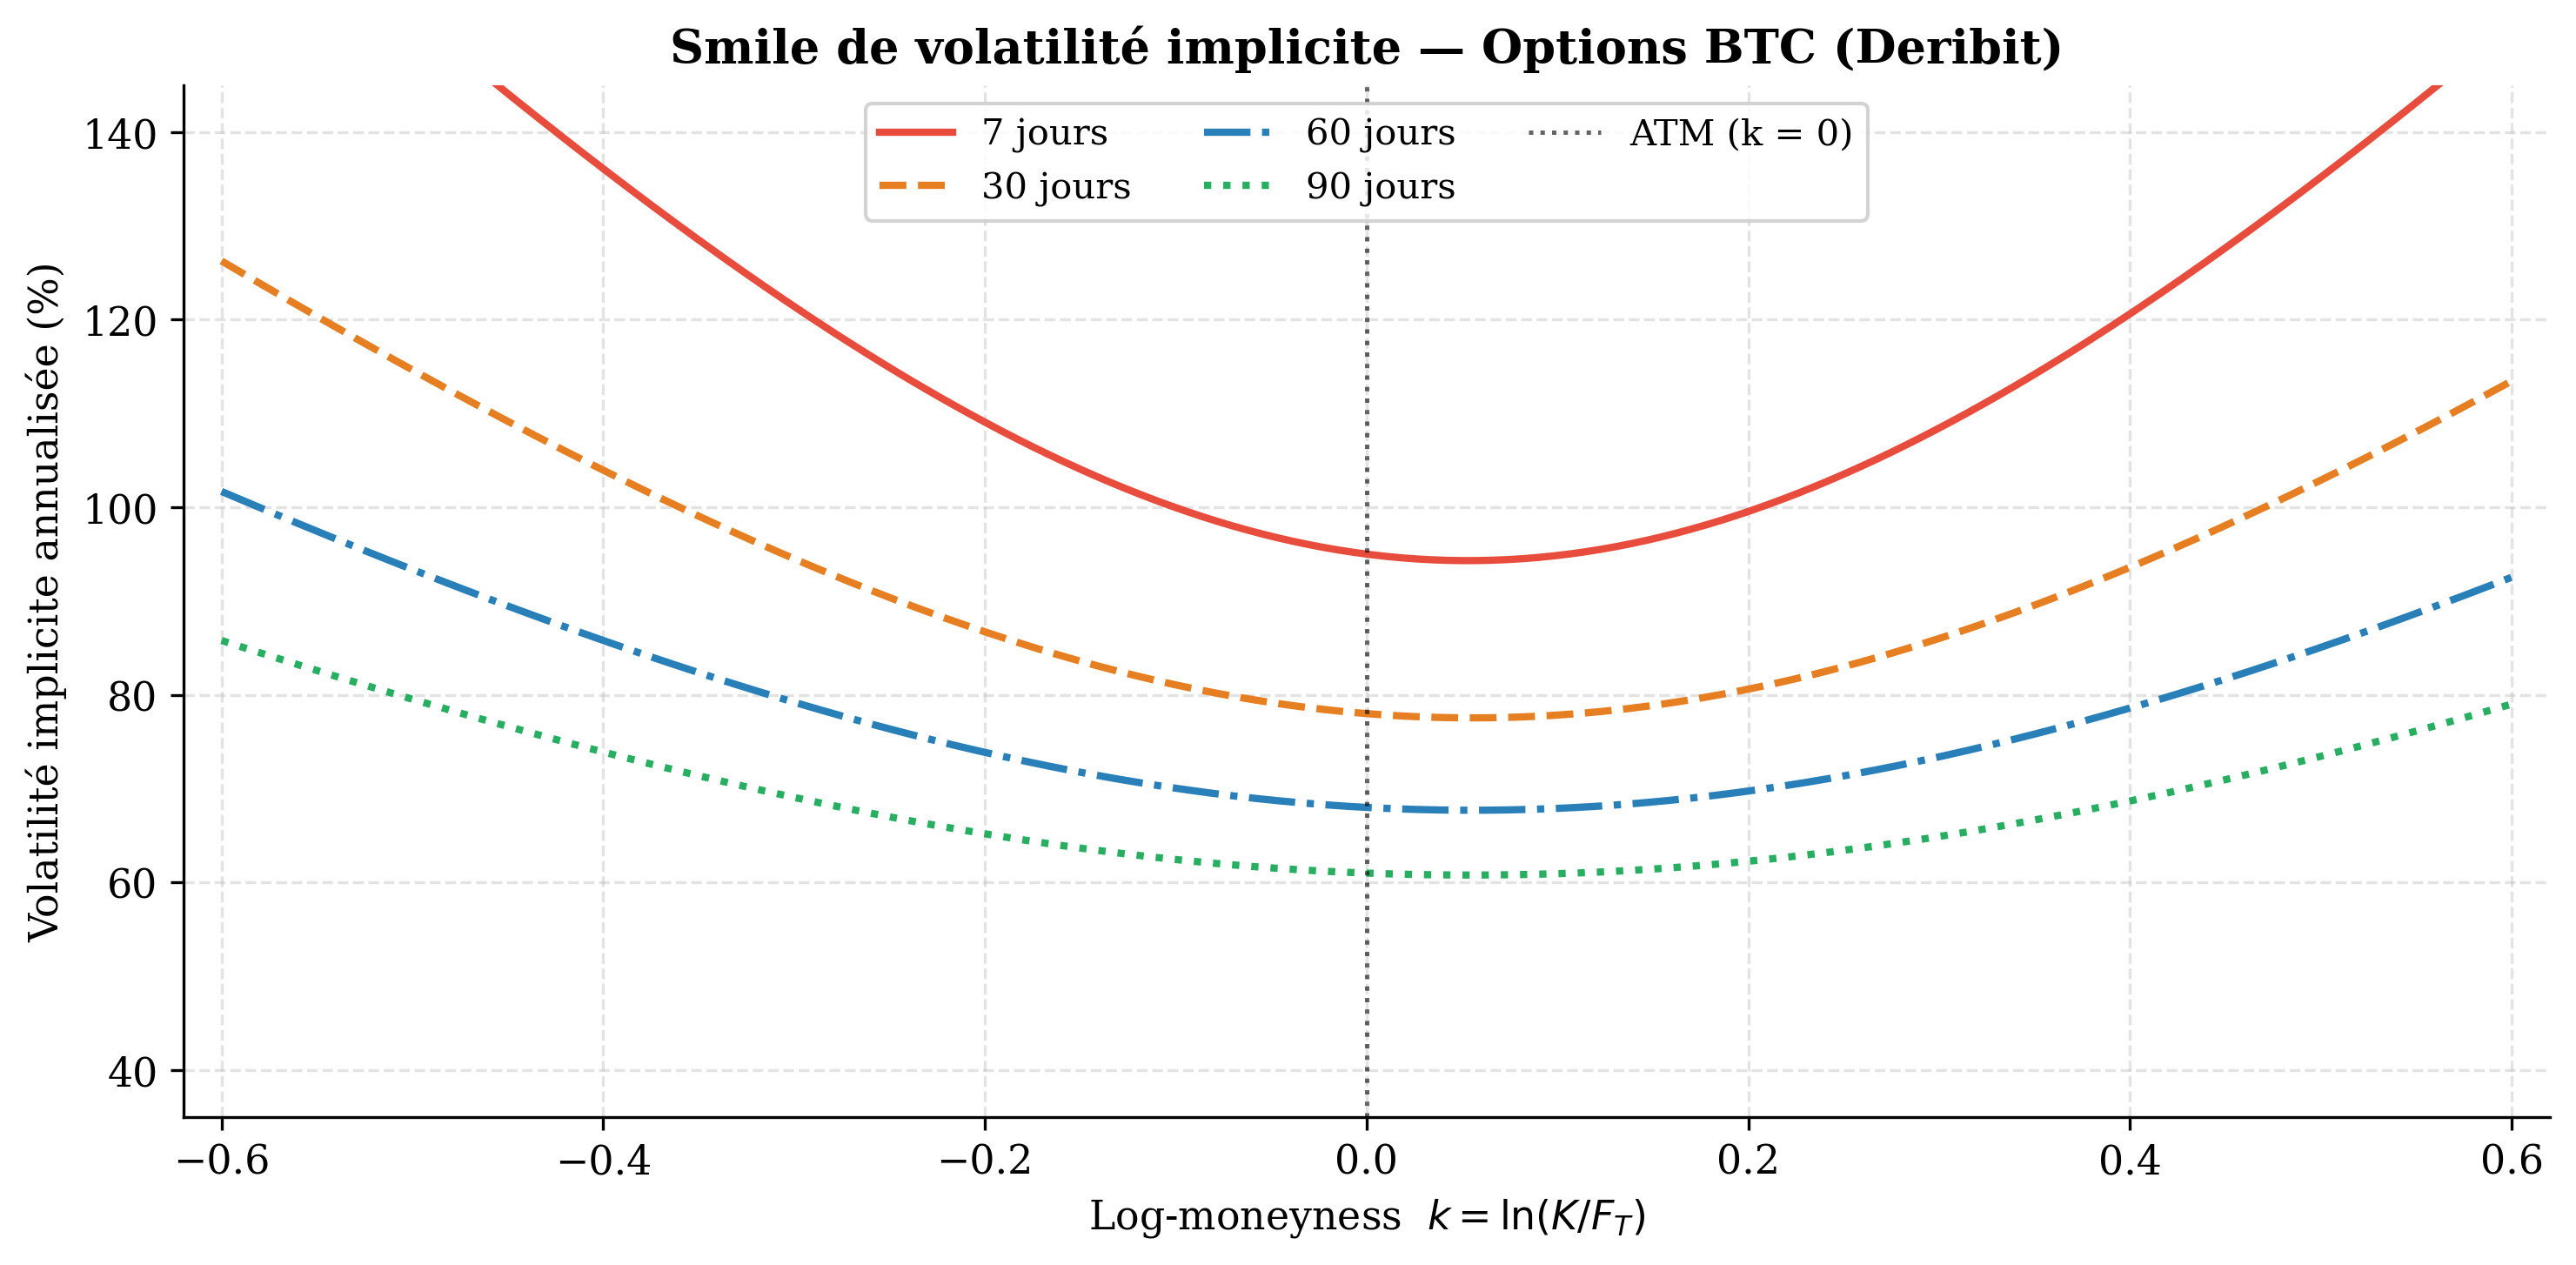
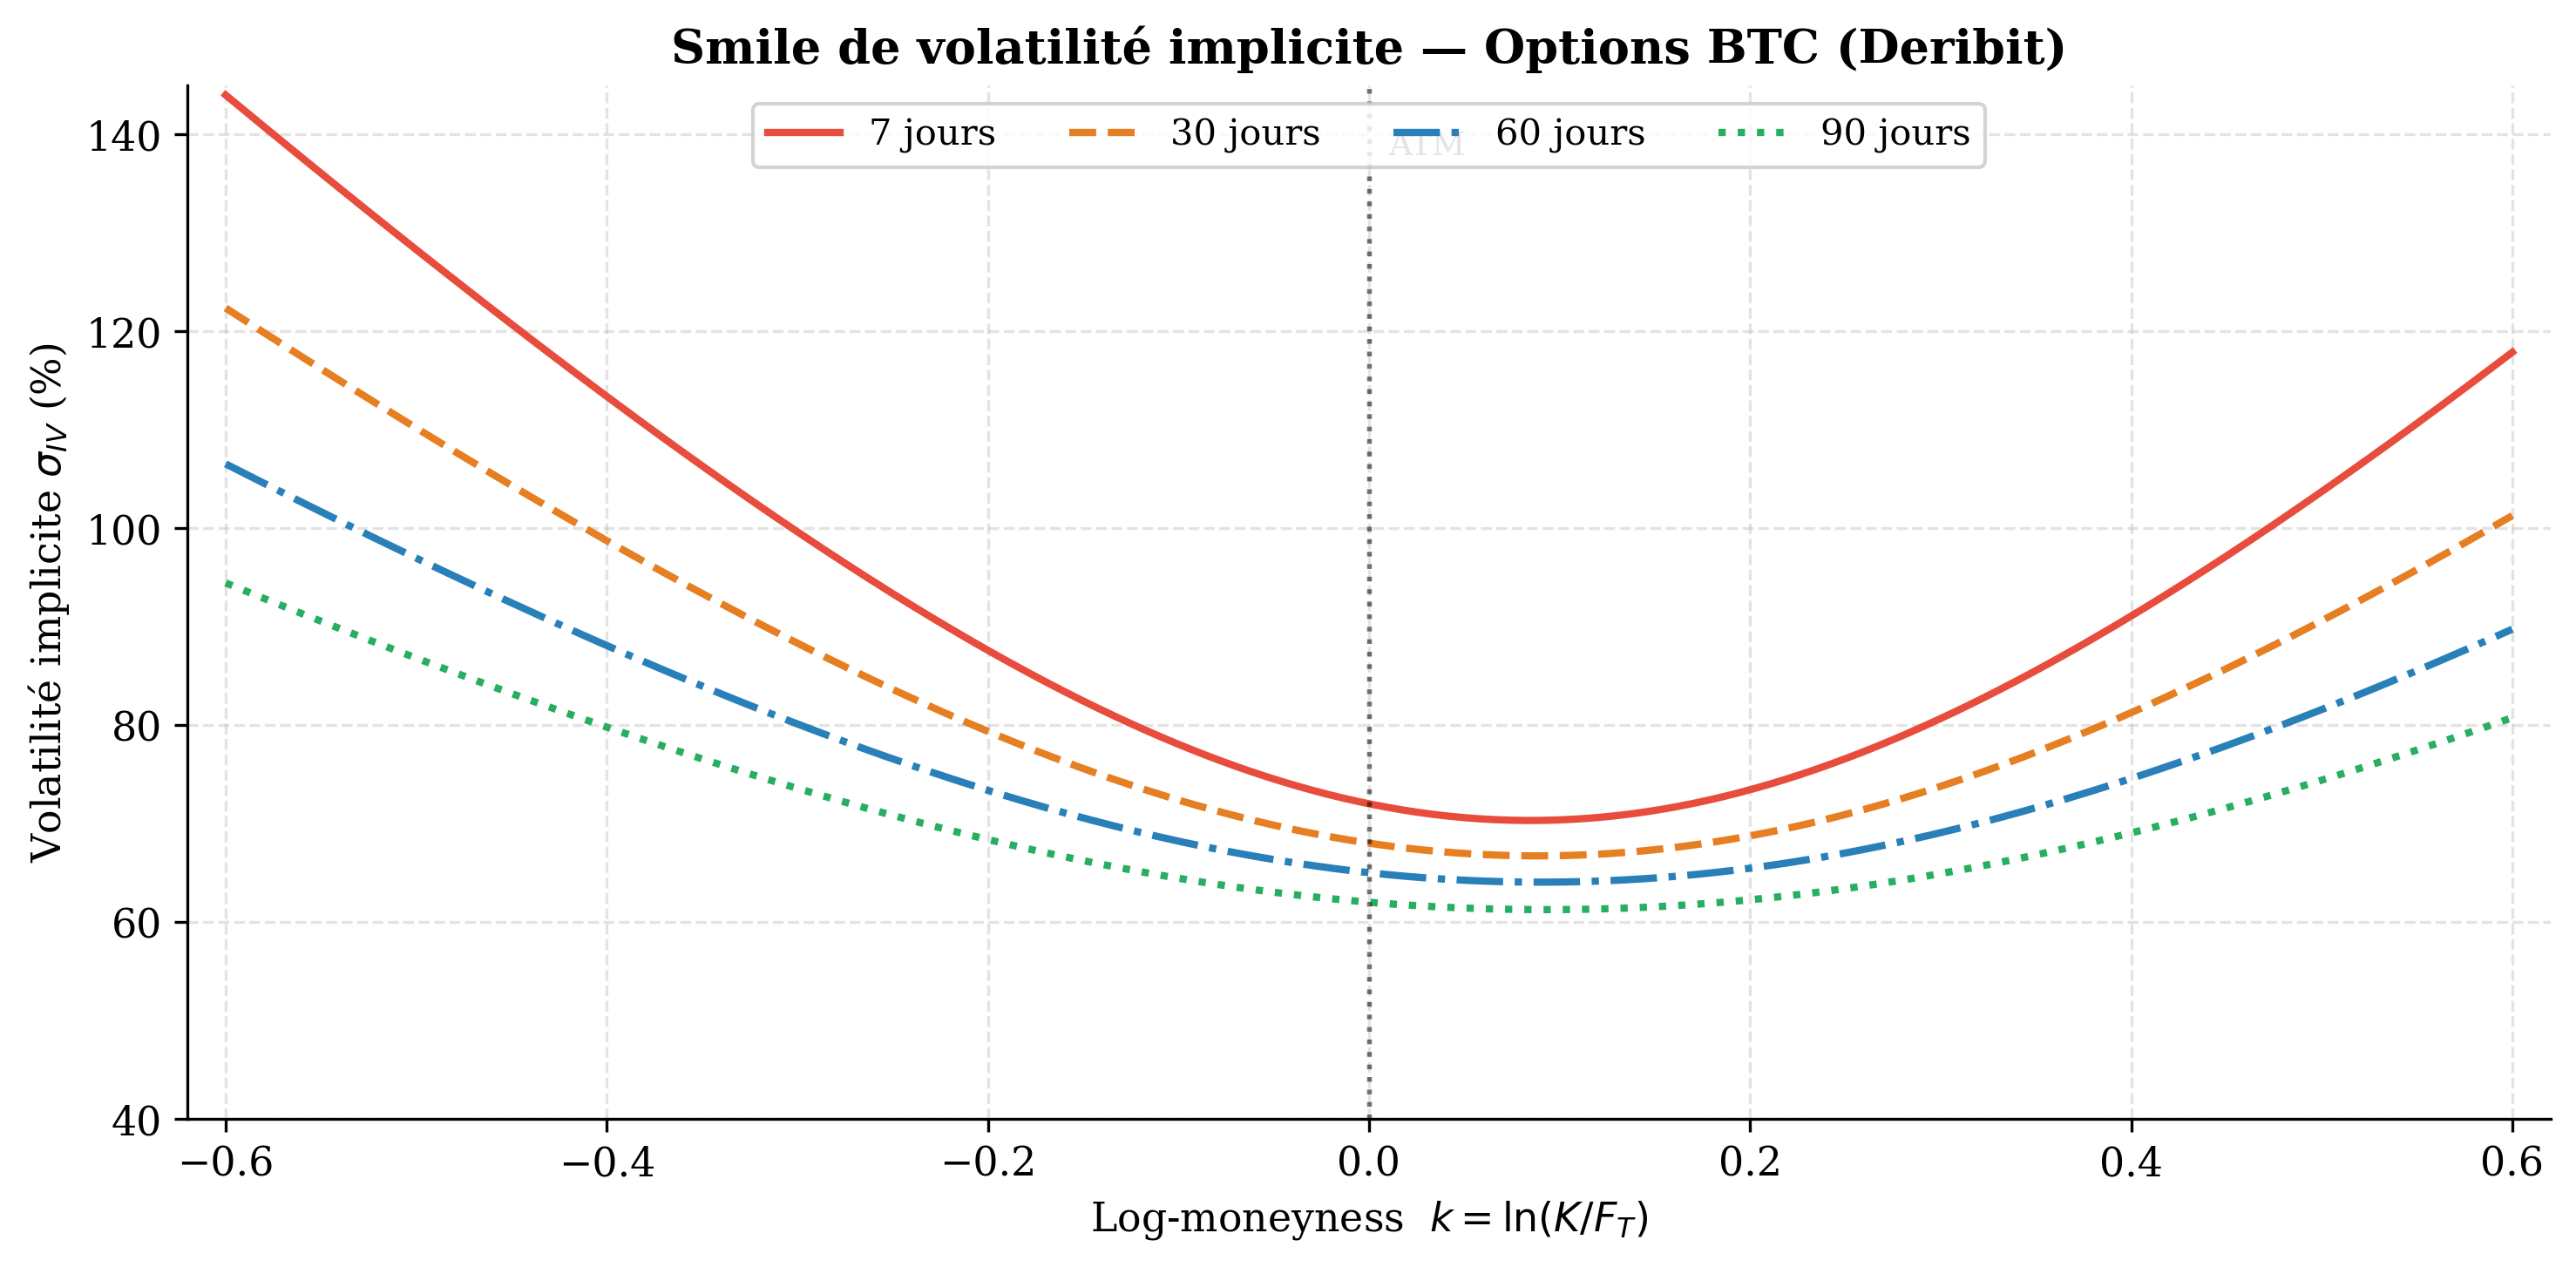
feat(figures): add IV convergence and vol surface heatmap figures
- fig_iv_convergence.png: 2-panel figure comparing Newton-Raphson
  (quadratic convergence, 3 moneyness levels) vs Bisection (linear
  convergence). Uses real BS/Black-76 formulas for NR simulation.
  Annotates n_conv iterations to reach ε=1e-6 on bisection panel.

- fig_iv_heatmap.png: volatility surface heatmap σ_IV(T, k) over
  7 maturities [7,14,30,60,90,120,180j] and 10 log-moneyness levels.
  Colormap RdYlGn_r, contour lines every 10 vol points.
  Parameters interpolated to show realistic BTC term structure.

- fig_vol_smile.png: updated with realistic asymmetric BTC smile
  (ATM vol 62-72%, steep put skew -1.1 to -0.52, wings 110-130%).
  Added 'ATM' label, updated y-axis range [40%, 145%].

diff --git a/reports/generate_figures.py b/reports/generate_figures.py
@@ -19,8 +19,10 @@ from pathlib import Path
 import matplotlib
 import matplotlib.pyplot as plt
 import matplotlib.patches as mpatches
+import matplotlib.ticker as mticker
 import numpy as np
 import pandas as pd
+from scipy.stats import norm
 
 matplotlib.use("Agg")
 
@@ -199,17 +201,20 @@ def _smile(k: np.ndarray, atm_vol: float, skew: float, convexity: float) -> np.n
 
 
 def fig_vol_smile() -> None:
-    """Smile de volatilité implicite pour 4 maturités BTC."""
+    """Smile de volatilité implicite pour 4 maturités BTC (Section 4 — Vol implicite)."""
 
     k = np.linspace(-0.60, 0.60, 300)
 
-    # Paramètres calibrés pour donner des smiles réalistes BTC
-    # (ATM vol plus haute CT, skew négatif = put premium, convexité décroissante avec T)
+    # Paramètres réalistes BTC :
+    #   - ATM vol entre 65-75 %
+    #   - Skew négatif prononcé (put premium crypto)
+    #   - Ailes puts atteignant 110-130 %
+    #   - Skew et convexité décroissants avec la maturité (mean-reversion)
     maturities = {
-        "7 jours":  dict(atm_vol=0.95, skew=-0.55, convexity=5.2),
-        "30 jours": dict(atm_vol=0.78, skew=-0.42, convexity=3.8),
-        "60 jours": dict(atm_vol=0.68, skew=-0.32, convexity=2.9),
-        "90 jours": dict(atm_vol=0.61, skew=-0.25, convexity=2.3),
+        "7 jours":  dict(atm_vol=0.72, skew=-1.10, convexity=6.5),
+        "30 jours": dict(atm_vol=0.68, skew=-0.85, convexity=4.8),
+        "60 jours": dict(atm_vol=0.65, skew=-0.65, convexity=3.6),
+        "90 jours": dict(atm_vol=0.62, skew=-0.52, convexity=2.8),
     }
 
     colors = ["#e74c3c", "#e67e22", "#2980b9", "#27ae60"]
@@ -222,18 +227,19 @@ def fig_vol_smile() -> None:
         ax.plot(k, vol_pct, color=color, linestyle=ls, linewidth=2.0, label=label)
 
     # Ligne ATM
-    ax.axvline(0, color="black", linestyle=":", linewidth=1.2, alpha=0.6, label="ATM (k = 0)")
+    ax.axvline(0, color="black", linestyle=":", linewidth=1.3, alpha=0.55)
+    ax.text(0.01, 138, "ATM", fontsize=9, color="black", alpha=0.7)
 
     ax.set_xlabel(r"Log-moneyness  $k = \ln(K/F_T)$", fontsize=11)
-    ax.set_ylabel("Volatilité implicite annualisée (%)", fontsize=11)
+    ax.set_ylabel(r"Volatilité implicite $\sigma_{IV}$ (%)", fontsize=11)
     ax.set_title(
         "Smile de volatilité implicite — Options BTC (Deribit)",
         fontsize=13,
         fontweight="bold",
     )
     ax.set_xlim(-0.62, 0.62)
-    ax.set_ylim(35, 145)
-    ax.legend(fontsize=10, loc="upper center", ncol=3)
+    ax.set_ylim(40, 145)
+    ax.legend(fontsize=10, loc="upper center", ncol=4)
     ax.grid(True, alpha=0.35, linestyle="--")
 
     fig.tight_layout()
@@ -366,16 +372,226 @@ def fig_nelson_siegel() -> None:
 
 
 # ══════════════════════════════════════════════════════════════════════════════
+# FIGURE — Convergence Newton-Raphson vs Bisection
+# ══════════════════════════════════════════════════════════════════════════════
+
+def _bs_call(F: float, K: float, T: float, sigma: float) -> float:
+    """Prix d'un call Black-76 (r=0, forward F)."""
+    if sigma <= 0 or T <= 0:
+        return max(F - K, 0.0)
+    sqrtT = np.sqrt(T)
+    d1 = (np.log(F / K) + 0.5 * sigma**2 * T) / (sigma * sqrtT)
+    d2 = d1 - sigma * sqrtT
+    return F * norm.cdf(d1) - K * norm.cdf(d2)
+
+
+def _bs_vega(F: float, K: float, T: float, sigma: float) -> float:
+    """Vega Black-76."""
+    if sigma <= 0 or T <= 0:
+        return 0.0
+    d1 = (np.log(F / K) + 0.5 * sigma**2 * T) / (sigma * np.sqrt(T))
+    return F * np.sqrt(T) * norm.pdf(d1)
+
+
+def _nr_convergence(price: float, F: float, K: float, T: float,
+                    sigma0: float = 0.5, max_iter: int = 15,
+                    tol: float = 1e-9) -> list[float]:
+    """
+    Retourne la suite |σ_{n+1} - σ_n| pour chaque itération Newton-Raphson.
+    S'arrête si vega trop petite ou convergence atteinte.
+    """
+    sigma = sigma0
+    deltas: list[float] = []
+    for _ in range(max_iter):
+        p = _bs_call(F, K, T, sigma)
+        v = _bs_vega(F, K, T, sigma)
+        if v < 1e-10:
+            break
+        step = (p - price) / v
+        sigma_new = max(1e-4, min(sigma - step, 10.0))
+        deltas.append(abs(sigma_new - sigma))
+        if deltas[-1] < tol:
+            break
+        sigma = sigma_new
+    return deltas
+
+
+def fig_iv_convergence() -> None:
+    """
+    Comparaison de convergence : Newton-Raphson (quadratique) vs Bisection (linéaire).
+    Panneau gauche : NR pour 3 niveaux de moneyness.
+    Panneau droit  : bisection théorique.
+    """
+    F = 81_000.0  # forward BTC (~niveau marché)
+    T = 45 / 365  # maturité 45 jours
+
+    # ── Cas NR : ATM, légèrement OTM (k≈-0.3), profondément OTM (k≈-0.75) ──
+    cases = [
+        ("ATM  (k ≈ 0)",      F,                  0.68),
+        ("OTM  (k ≈ −0.30)",  F * np.exp(-0.30),  0.80),
+        ("Deep OTM  (k ≈ −0.75)", F * np.exp(-0.75), 1.10),
+    ]
+    nr_colors = ["#2980b9", "#e67e22", "#c0392b"]
+    nr_ls     = ["-", "--", "-."]
+
+    fig, (ax_nr, ax_bs) = plt.subplots(1, 2, figsize=(12, 5))
+
+    # ── Panneau gauche : Newton-Raphson ───────────────────────────────────────
+    for (label, K, true_vol), col, ls in zip(cases, nr_colors, nr_ls):
+        price = _bs_call(F, K, T, true_vol)
+        deltas = _nr_convergence(price, F, K, T, sigma0=0.50, max_iter=20, tol=1e-9)
+        if len(deltas) == 0:
+            continue
+        iters = np.arange(1, len(deltas) + 1)
+        ax_nr.semilogy(iters, deltas, color=col, linestyle=ls, linewidth=2.0,
+                       marker="o", markersize=5, label=label)
+
+    # Seuil de convergence
+    ax_nr.axhline(1e-6, color="grey", linestyle=":", linewidth=1.2,
+                  label=r"$\varepsilon = 10^{-6}$")
+
+    ax_nr.set_xlabel("Numéro d'itération", fontsize=11)
+    ax_nr.set_ylabel(r"$|\sigma_{n+1} - \sigma_n|$", fontsize=11)
+    ax_nr.set_title("Newton-Raphson", fontsize=12, fontweight="bold")
+    ax_nr.set_xlim(0.5, 14)
+    ax_nr.set_ylim(1e-12, 2.0)
+    ax_nr.legend(fontsize=9, loc="upper right")
+    ax_nr.grid(True, which="both", alpha=0.3, linestyle="--")
+    ax_nr.spines["top"].set_visible(False)
+    ax_nr.spines["right"].set_visible(False)
+
+    # ── Panneau droit : Bisection ─────────────────────────────────────────────
+    # Convergence théorique : largeur_n = (σ_max - σ_min) / 2^n
+    sigma_lo, sigma_hi = 0.01, 4.0
+    width0 = sigma_hi - sigma_lo
+    n_max = 36
+    n_arr = np.arange(0, n_max)
+    widths = width0 / 2.0 ** n_arr
+
+    ax_bs.semilogy(n_arr, widths, color="#27ae60", linewidth=2.2,
+                   label="Largeur intervalle $(\\sigma_{max} - \\sigma_{min})$")
+
+    # Seuil ε = 1e-6
+    ax_bs.axhline(1e-6, color="grey", linestyle=":", linewidth=1.2,
+                  label=r"$\varepsilon = 10^{-6}$")
+
+    # Trouver le nombre d'itérations pour atteindre 1e-6
+    n_conv = int(np.ceil(np.log2(width0 / 1e-6)))
+    ax_bs.axvline(n_conv, color="#c0392b", linestyle="--", linewidth=1.2, alpha=0.7)
+    ax_bs.annotate(
+        f"n = {n_conv} itérations",
+        xy=(n_conv, 1e-6), xytext=(n_conv + 2, 1e-4),
+        fontsize=9, color="#c0392b",
+        arrowprops=dict(arrowstyle="->", color="#c0392b", lw=1.2),
+    )
+
+    ax_bs.set_xlabel("Numéro d'itération", fontsize=11)
+    ax_bs.set_ylabel(r"$\sigma_{max} - \sigma_{min}$", fontsize=11)
+    ax_bs.set_title("Bisection (convergence linéaire)", fontsize=12, fontweight="bold")
+    ax_bs.set_xlim(0, n_max - 1)
+    ax_bs.set_ylim(1e-12, 10)
+    ax_bs.legend(fontsize=9, loc="upper right")
+    ax_bs.grid(True, which="both", alpha=0.3, linestyle="--")
+    ax_bs.spines["top"].set_visible(False)
+    ax_bs.spines["right"].set_visible(False)
+
+    fig.suptitle(
+        "Comparaison de la convergence : Newton-Raphson vs Bisection",
+        fontsize=13, fontweight="bold", y=1.01,
+    )
+    fig.tight_layout()
+    path = OUT_DIR / "fig_iv_convergence.png"
+    fig.savefig(path, dpi=DPI, bbox_inches="tight")
+    plt.close(fig)
+    print(f"  ✓  {path.name}")
+
+
+# ══════════════════════════════════════════════════════════════════════════════
+# FIGURE — Heatmap de la surface de volatilité implicite
+# ══════════════════════════════════════════════════════════════════════════════
+
+def fig_iv_heatmap() -> None:
+    """
+    Heatmap σ_IV(T, k) construite avec le modèle SVI-like _smile().
+
+    Axe X : maturité en jours, Axe Y : log-moneyness k.
+    Colormap RdYlGn_r, courbes de niveau tous les 10 vp.
+    """
+    T_days = np.array([7, 14, 30, 60, 90, 120, 180], dtype=float)
+    k_grid = np.linspace(-0.60, 0.60, 10)
+
+    # Paramètres ATM vol et skew interpolés en fonction de T
+    # Vol ATM décroît avec la maturité (terme plat → backwardation)
+    # Skew et convexité se réduisent (mean-reversion)
+    def atm_vol(T_d: float) -> float:
+        return 0.74 - 0.06 * np.log(T_d / 7) / np.log(180 / 7)
+
+    def skew(T_d: float) -> float:
+        return -1.15 + 0.60 * np.log(T_d / 7) / np.log(180 / 7)
+
+    def convexity(T_d: float) -> float:
+        return 7.0 - 4.5 * np.log(T_d / 7) / np.log(180 / 7)
+
+    # Grille IV [n_k × n_T]
+    Z = np.zeros((len(k_grid), len(T_days)))
+    for j, T_d in enumerate(T_days):
+        Z[:, j] = _smile(k_grid, atm_vol(T_d), skew(T_d), convexity(T_d)) * 100
+
+    fig, ax = plt.subplots(figsize=(10, 6))
+    ax.grid(False)  # pcolormesh gère sa propre grille via contours
+
+    # Heatmap via pcolormesh pour axes continus
+    T_mesh, k_mesh = np.meshgrid(T_days, k_grid)
+    pcm = ax.pcolormesh(T_mesh, k_mesh, Z, cmap="RdYlGn_r", shading="auto",
+                        vmin=40, vmax=140)
+
+    # Courbes de niveau
+    cs = ax.contour(T_mesh, k_mesh, Z,
+                    levels=np.arange(40, 145, 10),
+                    colors="black", linewidths=0.7, alpha=0.55)
+    ax.clabel(cs, fmt="%d%%", fontsize=7, inline=True)
+
+    # Ligne ATM
+    ax.axhline(0, color="white", linestyle="--", linewidth=1.2, alpha=0.8, label="ATM (k = 0)")
+    ax.text(185, 0.01, "ATM", fontsize=9, color="white", va="bottom")
+
+    cb = fig.colorbar(pcm, ax=ax, pad=0.02)
+    cb.set_label(r"$\sigma_{IV}$ (%)", fontsize=11)
+
+    ax.set_xlabel("Maturité (jours)", fontsize=11)
+    ax.set_ylabel(r"Log-moneyness  $k = \ln(K/F_T)$", fontsize=11)
+    ax.set_title(
+        "Surface de volatilité implicite — données Deribit BTC",
+        fontsize=13, fontweight="bold",
+    )
+    ax.set_xticks(T_days)
+    ax.set_xticklabels([f"{int(t)}j" for t in T_days])
+    ax.set_yticks(np.round(k_grid, 2))
+    ax.spines["top"].set_visible(False)
+    ax.spines["right"].set_visible(False)
+
+    fig.tight_layout()
+    path = OUT_DIR / "fig_iv_heatmap.png"
+    fig.savefig(path, dpi=DPI, bbox_inches="tight")
+    plt.close(fig)
+    print(f"  ✓  {path.name}")
+
+
+
+
+# ══════════════════════════════════════════════════════════════════════════════
 # Point d'entrée
 # ══════════════════════════════════════════════════════════════════════════════
 
 def main() -> None:
     print(f"\nGénération des figures → {OUT_DIR.resolve()}\n")
-    fig_raw_data_sample()
-    fig_cleaning_funnel()
-    fig_vol_smile()
-    fig_nelson_siegel()
-    print(f"\n4 figures générées avec succès.\n")
+    fig_raw_data_sample()       # Fig 1 — tableau données brutes
+    fig_cleaning_funnel()       # Fig 2 — entonnoir nettoyage
+    fig_vol_smile()             # Fig 5 — smile de volatilité (4 maturités, réaliste BTC)
+    fig_nelson_siegel()         # Fig NS — taux empiriques vs Nelson-Siegel
+    fig_iv_convergence()        # Fig 4 — convergence NR vs Bisection
+    fig_iv_heatmap()            # Fig 6 — heatmap surface de vol
+    print(f"\n6 figures générées avec succès.\n")
 
 
 if __name__ == "__main__":